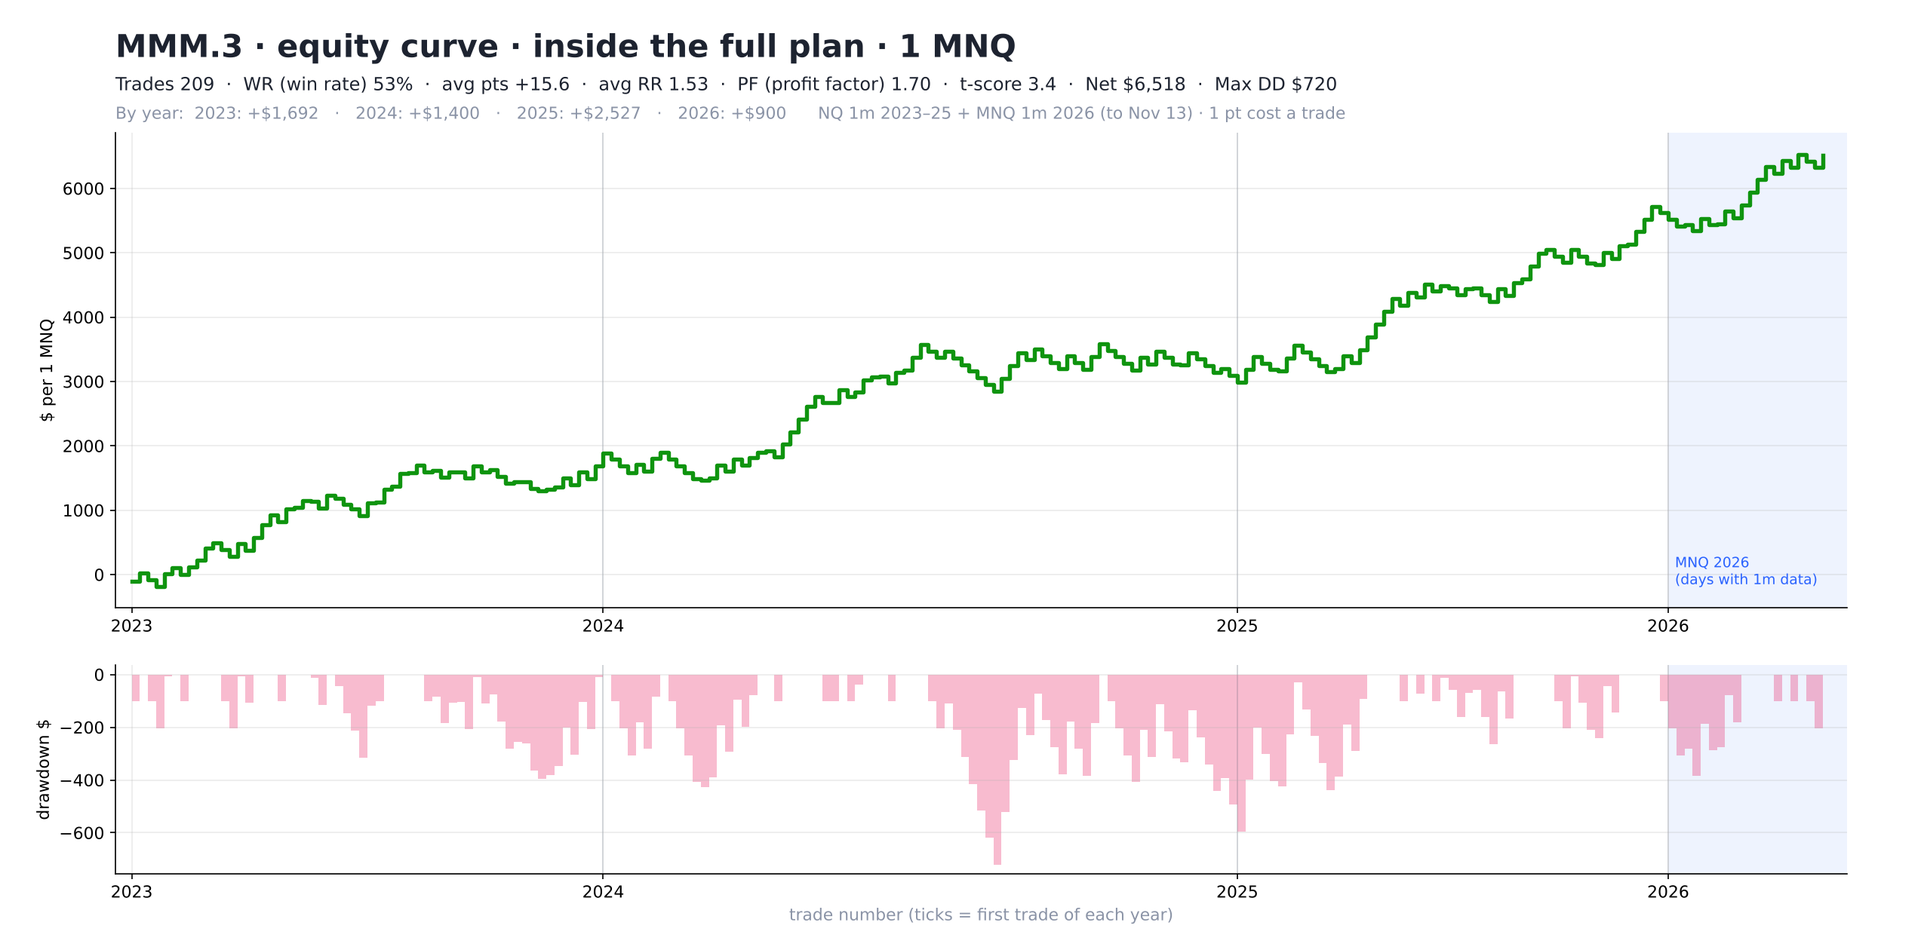
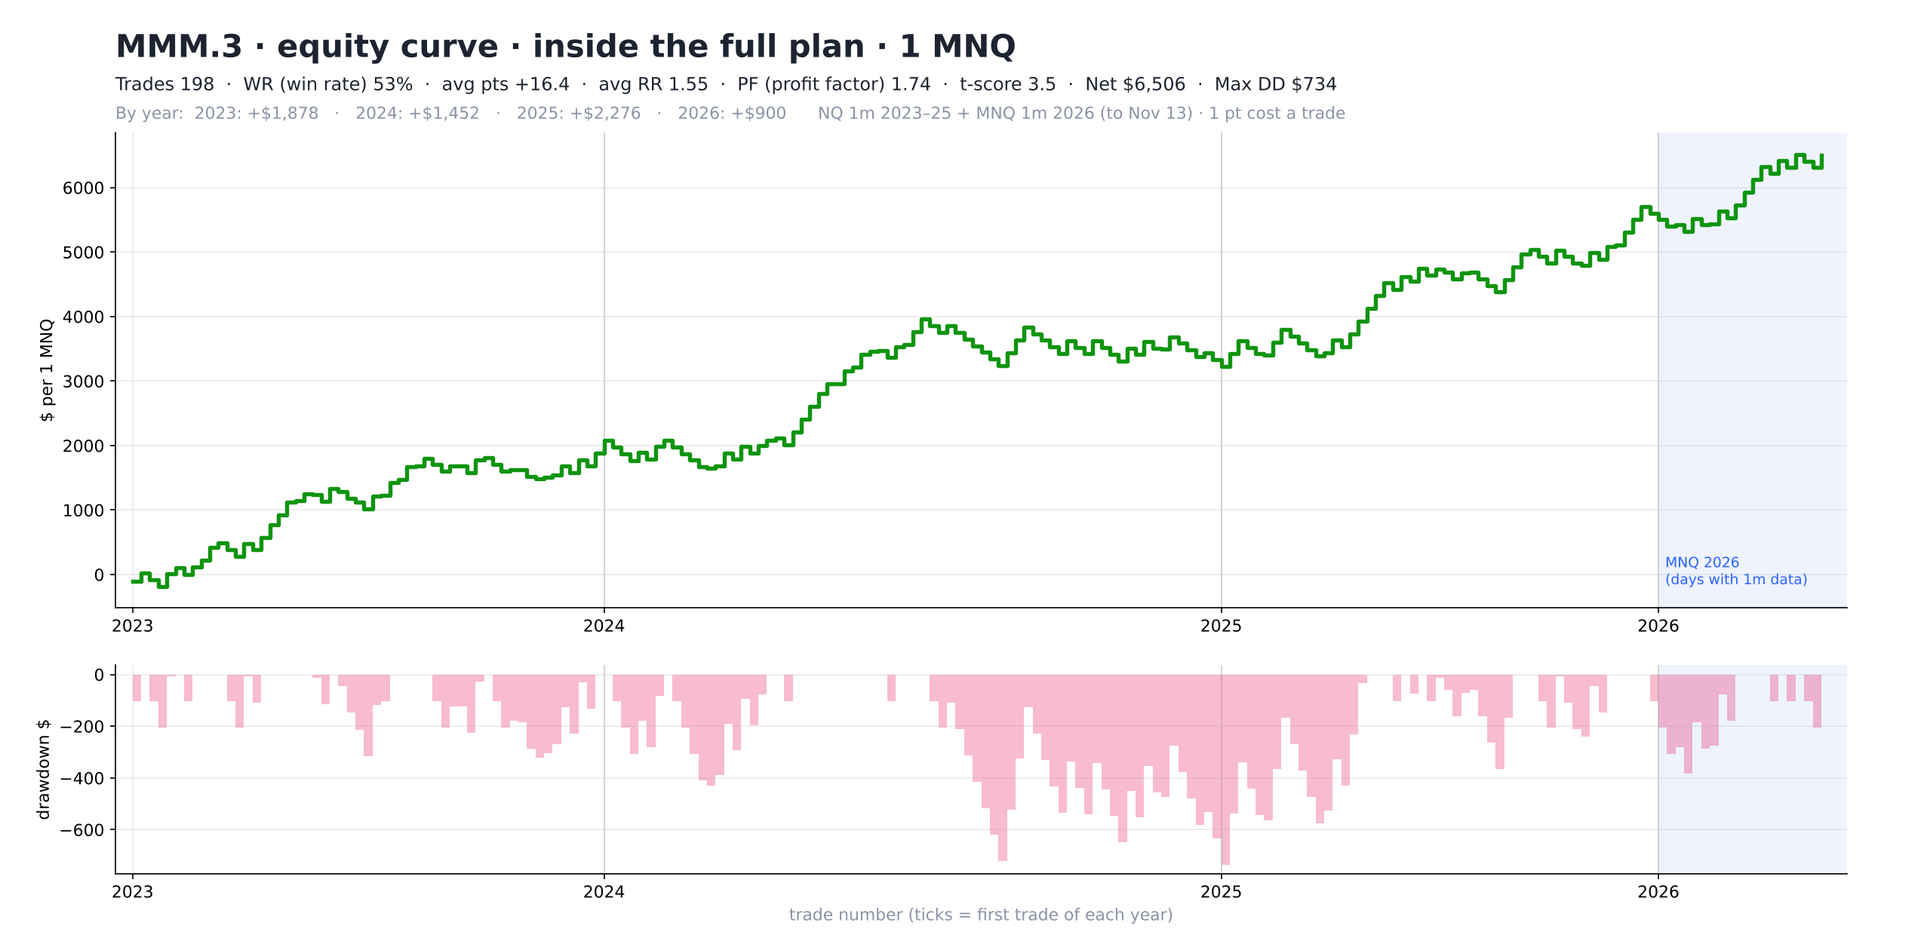
Admin strategy tab: MMM ONE with 7 setups (MMM.6 A/B strong B, MMM.7 London sweep)
New rule cards and curves for MMM.6 and MMM.7, 7-setup plan numbers, plan
picture and equity curve, timing table, Pine names renamed to MMM ONE.

Claude-Session: https://claude.ai/code/session_01BdM5iy6aXvNKQhs3ALG8vD

diff --git a/admin/strategy.js b/admin/strategy.js
@@ -1,11 +1,11 @@
-/* Admin · My strategy tab: the MMM H4 Plan, my personal day plan (final, Nov 16 2026).
-   Pictures, rules and equity curves of the 5 setups. Static content: numbers come from the final test
+/* Admin · My strategy tab: MMM ONE, my personal day plan (7 setups, Nov 23 2026).
+   Pictures, rules and equity curves of the 7 setups (MMM.6 and MMM.7 added Nov 23 2026). Static content: numbers come from the final test
    (NQ 1m 2023 – Nov 2025 + MNQ 1m 2026 to Nov 13, 1 MNQ, 1 pt cost a trade, one trade at a time, day rules on).
    Draws the first time the tab opens. */
 (function () {
   'use strict';
   var $ = function (id) { return document.getElementById(id); };
-  var D = {"setups":{"MMM.1":{"n":246.0,"wr":65.45,"avg":6.97,"pf":1.69,"t":3.62,"dd":309.0,"streak":4.0,"net":3429.5,"rr":0.89,"yr":{"2023":4.0,"2024":7.0,"2025":8.1,"2026":14.5}},"MMM.2":{"n":97.0,"wr":52.58,"avg":20.51,"pf":2.17,"t":2.83,"dd":228.5,"streak":9.0,"net":3978.5,"rr":1.96,"yr":{"2023":14.4,"2024":16.4,"2025":28.3,"2026":30.4}},"MMM.3":{"n":209.0,"wr":52.63,"avg":15.59,"pf":1.7,"t":3.44,"dd":360.25,"streak":6.0,"net":6518.5,"rr":1.53,"yr":{"2023":14.6,"2024":9.0,"2025":23.8,"2026":22.5}},"MMM.4":{"n":227.0,"wr":44.05,"avg":17.07,"pf":1.76,"t":3.86,"dd":328.0,"streak":8.0,"net":7749.5,"rr":2.23,"yr":{"2022":7.8,"2023":15.5,"2024":16.6,"2025":17.7,"2026":21.2}},"MMM.5":{"n":113.0,"wr":65.49,"avg":8.73,"pf":1.88,"t":3.35,"dd":126.0,"streak":4.0,"net":1974.0,"rr":0.99,"yr":{"2023":5.9,"2024":13.4,"2025":7.0,"2026":3.3}}},"plan":{"nq":{"n":812.0,"per_day":1.42,"wr":55.3,"pf":1.76,"t":6.68,"net":20674.5,"dd":883.5,"worst":-283.5,"green":83.33,"hit":0.17},"mnq":{"n":80.0,"per_day":1.45,"wr":58.75,"pf":1.98,"t":2.58,"net":2975.5,"dd":360.0,"worst":-203.0,"green":83.33,"hit":0.0},"all":{"n":892.0,"per_day":1.43,"wr":55.61,"pf":1.78,"t":7.17,"net":23650.0,"dd":883.5,"worst":-283.5,"green":83.33,"hit":0.17}}};
+  var D = {"setups":{"MMM.1":{"n":246.0,"wr":65.45,"avg":6.97,"pf":1.69,"t":3.62,"dd":309.0,"streak":4.0,"net":3429.5,"rr":0.89,"yr":{"2023":4.0,"2024":7.0,"2025":8.1,"2026":14.5}},"MMM.2":{"n":80.0,"wr":52.5,"avg":18.24,"pf":1.93,"t":2.26,"dd":220.0,"streak":8.0,"net":2918.5,"rr":1.75,"yr":{"2023":19.5,"2024":5.3,"2025":25.1,"2026":30.4}},"MMM.3":{"n":198.0,"wr":53.03,"avg":16.43,"pf":1.74,"t":3.52,"dd":367.25,"streak":6.0,"net":6505.5,"rr":1.55,"yr":{"2023":17.1,"2024":10.1,"2025":22.3,"2026":22.5}},"MMM.4":{"n":193.0,"wr":43.01,"avg":16.87,"pf":1.74,"t":3.5,"dd":328.0,"streak":8.0,"net":6512.0,"rr":2.3,"yr":{"2023":12.7,"2024":21.9,"2025":18.1,"2026":12.3}},"MMM.5":{"n":104.0,"wr":65.38,"avg":8.87,"pf":1.92,"t":3.29,"dd":126.0,"streak":4.0,"net":1845.5,"rr":1.01,"yr":{"2023":6.7,"2024":15.5,"2025":5.1,"2026":3.3}},"MMM.6":{"n":148.0,"wr":43.92,"avg":11.82,"pf":1.43,"t":2.03,"dd":357.0,"streak":7.0,"net":3498.0,"rr":1.83,"yr":{"2022":44.0,"2023":1.3,"2024":10.6,"2025":13.4,"2026":49.0}},"MMM.7":{"n":131.0,"wr":45.04,"avg":11.98,"pf":1.53,"t":2.31,"dd":290.0,"streak":7.0,"net":3138.25,"rr":1.87,"yr":{"2022":-41.0,"2023":14.8,"2024":15.2,"2025":5.9,"2026":19.0}}},"plan":{"nq":{"n":1000.0,"per_day":1.57,"wr":52.5,"pf":1.63,"t":6.63,"net":23791.75,"dd":970.5,"worst":-283.5,"green":86.11,"hit":1.2},"mnq":{"n":100.0,"per_day":1.64,"wr":58.0,"pf":2.05,"t":3.13,"net":4055.5,"dd":452.0,"worst":-285.0,"green":83.33,"hit":0.0},"all":{"n":1100.0,"per_day":1.58,"wr":53.0,"pf":1.67,"t":7.29,"net":27847.25,"dd":970.5,"worst":-285.0,"green":85.71,"hit":1.48}}};
   var IMG = '/admin/strategy/';
   var money = function (x) { return (x < 0 ? '−$' : '$') + Math.abs(Math.round(x)).toLocaleString('en-US'); };
   var sg = function (x, d) { return (x >= 0 ? '+' : '−') + Math.abs(x).toFixed(d == null ? 1 : d); };
@@ -24,7 +24,7 @@
               '<b>Entry:</b> the first M30 candle that closes past the candle before it (CBrk = R1). Enter at that close.',
               '<b>Stop</b> past the break candle. Each new M30 close past the one before moves the stop past it. The stop is wide: size for it.',
               '<b>Out</b> at 2PM (the H4 close) or at the trailed stop.'],
-      note: 'MMM.2 and MMM.3 share the 10AM H4: the first signal wins.' },
+      note: 'MMM.2 and MMM.3 share the 10AM H4: the first signal wins. MMM.6 often takes the 10:00–10:30 slot first, so MMM.2 has fewer trades in the 7-setup plan (80, was 97).' },
     { c: 'MMM.3', name: 'H4-10AM · Open ±30 Push (MC / MU)', st: 'Trade', win: '10AM–2PM NY', chart: 'H4 → M5', stop: 'Stop 50 · Target +100 (1:2)',
       rules: ['<b>Filter:</b> the pH4-6AM closed weak (MMCB Minus: BuBC−, BeBC−, BuAFs− or BeAFs−). Otherwise no trade.',
               '<b>Mark</b> the 10AM open ± 30 pts.',
@@ -46,12 +46,26 @@
               '<b>Stop 30 · Target +30.</b> Leave it alone.',
               '<b>Longs only.</b> A break of the low of day does not work.',
               '<b>Out</b> at TP, SL or 4PM.'],
-      note: 'Entries after 2PM are weaker. Paper-trade first.' }
+      note: 'Entries after 2PM are weaker. Paper-trade first.' },
+    { c: 'MMM.6', name: 'A / B Hours · Strong B + M5 Break', st: 'Paper first', win: '10:00–10:30AM NY', chart: 'H1 → M5', stop: 'Stop 50 · Target +100 (1:2)',
+      rules: ['<b>A</b> = the 8–9AM H1. <b>B</b> = the 9–10AM H1 (New York time).',
+              '<b>Filter:</b> B is strong (body over 60% of the candle) and closes past A. Long: B closes up, above the A high. Short: B closes down, below the A low. Otherwise no trade today.',
+              '<b>Entry:</b> the first M5 candle that closes past the last M5 high (long) or low (short) with a body over 60%. Enter at its close. The last candle closes at 10:30.',
+              '<b>Stop 50 · Target +100.</b> Leave it alone.',
+              '<b>Out</b> at TP, SL or 4PM.'],
+      note: 'Weak in 2023 (avg +1 pt a trade). t-score 2.0: paper-trade first.' },
+    { c: 'MMM.7', name: 'London Sweep of Asia · H1 Reversal Limit', st: 'Paper first', win: 'Signal 2AM–8AM NY', chart: 'H1 · limit order', stop: 'Stop 40 · Target +80 (1:2)',
+      rules: ['<b>Mark</b> the Asia high and low: 6PM–2AM NY (needs 5 hours of data or more).',
+              '<b>Filter:</b> London (2–8AM) takes ONE side of Asia. One H1 that takes both sides = no trade today.',
+              '<b>Signal:</b> a strong H1 (body over 60%) closes back the other way. High taken → it closes down, back below the Asia high and below the last H1 low. Low taken → the mirror, for a long.',
+              '<b>Entry:</b> a LIMIT order at 50% of that H1. Valid until 8AM. Not filled by 8AM = no trade.',
+              '<b>Stop 40 · Target +80.</b> Out at TP, SL or 4PM.'],
+      note: 'The only limit entry in the plan. Weak in 2025 (avg +6 pts a trade). t-score 2.3: paper-trade first. If MMM.1 fires before the fill, MMM.1 trades.' }
   ];
   var PLAN = ['NY time. I trade <b>MNQ</b>. The day starts at 6PM.',
               '<b>One trade at a time.</b> While a trade is open, new signals are ignored.',
               '<b>Stop the day</b> after 2 wins or 2 losses. Max 3 trades a day.',
-              '<b>Enter at the signal candle close.</b> Limit orders at the 50% or the open missed the best winners.',
+              '<b>Enter at the signal candle close.</b> Limit orders at the 50% or the open missed the best winners for MMM.1–5. MMM.7 is the one limit setup: its test was built that way.',
               '<b>Fixed stop, fixed target.</b> No break-even, no trail (MMM.2 trails by design). No early exits.',
               '<b>Same candle, two setups:</b> the lower MMM number goes first (the same as the TradingView strategy).',
               '<b>Size</b> from the stop: the indicator gives the contracts for your $ risk. The test uses 1 MNQ and 1 pt cost a trade.'];
@@ -79,11 +93,11 @@
   function kpi(v, a, b) { return '<div class="kpi"><b>' + v + '</b><span>' + a + (b ? '<br><small>' + b + '</small>' : '') + '</span></div>'; }
   function draw() {
     var A = D.plan.all, N = D.plan.nq, M = D.plan.mnq, h = '<style>' + CSS + '</style>';
-    h += '<div><h2>MMM Personal Strategy · the H4 Plan</h2><p class="lead">My own day plan: 5 setups at fixed times, fixed stops and fixed targets. Tested on NQ 1-minute data from Jan 2023 to Nov 2025, then checked on MNQ 2026 (to Nov 13). TradingView\'s Strategy Tester gave the same trades (97% within 1 pt).</p>';
+    h += '<div><h2>MMM Personal Strategy · MMM ONE</h2><p class="lead">My own day plan: 7 setups at fixed times, fixed stops and fixed targets. Tested on NQ 1-minute data from Jan 2023 to Nov 2025, then checked on MNQ 2026 (to Nov 13). TradingView\'s Strategy Tester gave the same trades for MMM.1–5 (97% within 1 pt). MMM.6 (A/B hours) and MMM.7 (London sweep of Asia) were added on Nov 23 2026: 5 setups made $23,650 (DD $884), 7 setups make ' + money(A.net) + ' (DD ' + money(A.dd) + ').</p>';
     h += '<div class="kpis">' + kpi(money(A.net), 'Net, 1 MNQ', 'whole test') + kpi(A.n, 'Trades', A.per_day.toFixed(1) + ' a day') + kpi(A.wr.toFixed(0) + '%', 'WR (win rate)') +
          kpi(A.pf.toFixed(2), 'PF (profit factor)') + kpi(A.t.toFixed(1), 't-score', '3+ = very likely real') + kpi(money(A.dd), 'Max drawdown', 'worst day ' + money(A.worst)) +
          kpi(A.green.toFixed(0) + '%', 'Green months') + kpi(money(M.net), 'MNQ 2026 check', M.n + ' trades · PF ' + M.pf.toFixed(2)) + '</div></div>';
-    h += '<nav class="jump" aria-label="Jump to">' + ['plan', 'mix', 'time', 'size', 'MMM.1', 'MMM.2', 'MMM.3', 'MMM.4', 'MMM.5', 'out', 'pine'].map(function (k) {
+    h += '<nav class="jump" aria-label="Jump to">' + ['plan', 'mix', 'time', 'size', 'MMM.1', 'MMM.2', 'MMM.3', 'MMM.4', 'MMM.5', 'MMM.6', 'MMM.7', 'out', 'pine'].map(function (k) {
       return '<a href="#st-' + k.replace('.', '') + '">' + ({ plan: 'The plan', mix: 'Every mix', time: 'When to trade', size: 'Account size', out: 'Tested and left out', pine: 'Pine scripts' }[k] || k) + '</a>'; }).join('') + '</nav>';
     h += '<section id="st-plan" class="set"><h3>The plan · one page</h3>' + pic('MMM_Personal_Strategy.png', 'MMM Personal Strategy one-page plan') +
          '<div class="two"><div><h3>Plan rules</h3><ol>' + PLAN.map(function (x) { return '<li>' + x + '</li>'; }).join('') + '</ol></div>' +
@@ -91,10 +105,10 @@
          [['NQ 2023 – Nov 2025', N], ['MNQ 2026 (to Nov 13)', M], ['Whole test', A]].map(function (r) { var s = r[1];
            return '<tr><td>' + r[0] + '</td><td class="num">' + s.n + '</td><td class="num">' + s.wr.toFixed(0) + '%</td><td class="num">' + s.pf.toFixed(2) + '</td><td class="num">' + s.t.toFixed(1) + '</td><td class="num">' + money(s.net) + '</td><td class="num">' + money(s.dd) + '</td></tr>'; }).join('') +
          '</tbody></table></div><p class="small">2026 = only the days with 1-minute data. −$2,000 drawdown touched in ' + A.hit.toFixed(2) + '% of 4,000 reshuffles of the same trades.</p></div></div>' +
-         '<h3>Equity curve · all 5 setups</h3>' + pic('MMM_Plan_Equity.png', 'MMM H4 Plan equity curve') + '</section>';
-    h += '<section id="st-mix" class="set"><h3>Every mix · each setup alone, together, and all 5</h3><p class="lead" style="margin:0"><b>All 5 makes the most money</b> ($23,650, max drop $884 on 1 MNQ). Adding any setup to a mix adds money. <b>MMM.2 + 3 + 4 + 5</b> (no London) has the smallest drop for its money ($20,439, drop $655): use it on days you skip the 2AM session.</p>' + pic('MMM_Mix_Curves.png', 'Equity of every mix') + pic('MMM_All_Mixes.png', 'All 31 mixes ranked') + '</section>';
-    h += '<section id="st-time" class="set"><h3>When to be in front of the market</h3><div class="two"><div><ol><li><b>London:</b> sit down 1:55AM NY (6:55AM UK) for MMM.1. Done at the trade exit or 6AM NY (11AM UK).</li><li><b>NY AM:</b> sit down 9:55AM NY (2:55PM UK) for MMM.2, MMM.3 and MMM.4. Done at the trade exit; MMM.4 can run to 4PM NY (9PM UK).</li><li><b>NY PM:</b> sit down 1:25PM NY (6:25PM UK) for MMM.5. Done at the trade exit or 4PM NY (9PM UK).</li><li>UK = NY + 5 hours most of the year (+4 for about 3 weeks in March and 1 week around early November).</li></ol><p class="note" style="margin-top:10px">A trade happens on 75% of days, 1.4 trades on those days. Average time in a trade: about 1 h 30 min (MMM.5 about 45 min).</p></div><div class="tw"><table><thead><tr><th>Setup</th><th>Entries NY</th><th>Entries UK</th><th class="num">Signal days</th><th class="num">Avg entry</th><th class="num">Avg in trade</th></tr></thead><tbody><tr><td><b>MMM.1</b></td><td>2:00–6:00AM</td><td>7:00–11:00AM</td><td class="num">30%</td><td class="num">2:51AM NY</td><td class="num">106 min</td></tr><tr><td><b>MMM.2</b></td><td>10:00AM–2:00PM</td><td>3:00–7:00PM</td><td class="num">15%</td><td class="num">11:28AM NY</td><td class="num">102 min</td></tr><tr><td><b>MMM.3</b></td><td>10:00AM–2:00PM</td><td>3:00–7:00PM</td><td class="num">26%</td><td class="num">10:34AM NY</td><td class="num">94 min</td></tr><tr><td><b>MMM.4</b></td><td>10:30AM–12:00PM</td><td>3:30–5:00PM</td><td class="num">35%</td><td class="num">10:53AM NY</td><td class="num">102 min</td></tr><tr><td><b>MMM.5</b></td><td>1:30–3:00PM</td><td>6:30–8:00PM</td><td class="num">21%</td><td class="num">2:00PM NY</td><td class="num">45 min</td></tr></tbody></table></div></div>' + pic('MMM_Screen_Time.png', 'When to be in front of the market') + '</section>';
-    h += '<section id="st-size" class="set"><h3>Prop account size · starting today</h3><p class="lead" style="margin:0"><b>Start with a 50K-type account ($2,000 drawdown) and 1 MNQ.</b> The worst drop in the test was $884 (44% of the limit); 3,000 reshuffles of the same trades touch −$2,000 only 0.3% of the time. A 100K-type ($3,000) still allows only 1 MNQ by the 2× rule. Next step: a 150K-type ($4,500) with 2 MNQ. Option: size from the stop with $150 risk a trade on the $2,000 account.</p><p style="margin:10px 0 0"><button class="btn gold" type="button" onclick="window.MMMPick && window.MMMPick(\'size\')">Open the Prop Safe Size calculator</button></p>' + pic('MMM_Prop_Size.png', 'Prop account size for the MMM H4 Plan') + '</section>';
+         '<h3>Equity curve · all 7 setups</h3>' + pic('MMM_Plan_Equity.png', 'MMM ONE plan equity curve') + '</section>';
+    h += '<section id="st-mix" class="set"><h3>Every mix · MMM.1–5 alone, together, and all 5</h3><p class="lead" style="margin:0">These pictures cover MMM.1–5. <b>All 5</b> made $23,650 (max drop $884 on 1 MNQ). <b>Adding MMM.6 + MMM.7</b> adds $4,197 and the max drop goes to $971. <b>MMM.2 + 3 + 4 + 5</b> (no London) has the smallest drop for its money ($20,439, drop $655): use it on days you skip the night sessions.</p>' + pic('MMM_Mix_Curves.png', 'Equity of every mix') + pic('MMM_All_Mixes.png', 'All 31 mixes ranked') + '</section>';
+    h += '<section id="st-time" class="set"><h3>When to be in front of the market</h3><div class="two"><div><ol><li><b>London:</b> sit down 1:55AM NY (6:55AM UK) for MMM.1 and MMM.7. MMM.1 is done at the trade exit or 6AM NY (11AM UK). MMM.7: the limit order is placed at an H1 close between 3AM and 8AM NY; set it and its stop / target, it can run to 4PM NY.</li><li><b>NY AM:</b> sit down 9:55AM NY (2:55PM UK) for MMM.2, MMM.3, MMM.4 and MMM.6 (MMM.6 entries only 10:00–10:30). Done at the trade exit; MMM.4 can run to 4PM NY (9PM UK).</li><li><b>NY PM:</b> sit down 1:25PM NY (6:25PM UK) for MMM.5. Done at the trade exit or 4PM NY (9PM UK).</li><li>UK = NY + 5 hours most of the year (+4 for about 3 weeks in March and 1 week around early November).</li></ol><p class="note" style="margin-top:10px">With 7 setups a trade happens on about 84% of days, 1.6 trades on those days. Average time in a trade: about 1 h 30 min (MMM.5 about 40 min, MMM.7 about 2 h 35 min). The picture below shows MMM.1–5.</p></div><div class="tw"><table><thead><tr><th>Setup</th><th>Entries NY</th><th>Entries UK</th><th class="num">Signal days</th><th class="num">Avg entry</th><th class="num">Avg in trade</th></tr></thead><tbody><tr><td><b>MMM.1</b></td><td>2:00–6:00AM</td><td>7:00–11:00AM</td><td class="num">30%</td><td class="num">2:51AM NY</td><td class="num">106 min</td></tr><tr><td><b>MMM.2</b></td><td>10:00AM–2:00PM</td><td>3:00–7:00PM</td><td class="num">15%</td><td class="num">11:28AM NY</td><td class="num">102 min</td></tr><tr><td><b>MMM.3</b></td><td>10:00AM–2:00PM</td><td>3:00–7:00PM</td><td class="num">26%</td><td class="num">10:34AM NY</td><td class="num">94 min</td></tr><tr><td><b>MMM.4</b></td><td>10:30AM–12:00PM</td><td>3:30–5:00PM</td><td class="num">35%</td><td class="num">10:53AM NY</td><td class="num">102 min</td></tr><tr><td><b>MMM.5</b></td><td>1:30–3:00PM</td><td>6:30–8:00PM</td><td class="num">21%</td><td class="num">2:00PM NY</td><td class="num">45 min</td></tr><tr><td><b>MMM.6</b></td><td>10:00–10:30AM</td><td>3:00–3:30PM</td><td class="num">18%</td><td class="num">10:15AM NY</td><td class="num">94 min</td></tr><tr><td><b>MMM.7</b></td><td>3:00–8:00AM (limit)</td><td>8:00AM–1:00PM</td><td class="num">17%</td><td class="num">6:12AM NY</td><td class="num">156 min</td></tr></tbody></table></div></div>' + pic('MMM_Screen_Time.png', 'When to be in front of the market') + '</section>';
+    h += '<section id="st-size" class="set"><h3>Prop account size · starting today</h3><p class="lead" style="margin:0"><b>Start with a 50K-type account ($2,000 drawdown) and 1 MNQ.</b> The worst drop with 7 setups was $971 (49% of the limit); reshuffles of the same trades touch −$2,000 about 1.3% of the time (0.3% with 5 setups). The picture below was made for 5 setups. A 100K-type ($3,000) still allows only 1 MNQ by the 2× rule. Next step: a 150K-type ($4,500) with 2 MNQ. Option: size from the stop with $150 risk a trade on the $2,000 account.</p><p style="margin:10px 0 0"><button class="btn gold" type="button" onclick="window.MMMPick && window.MMMPick(\'size\')">Open the Prop Safe Size calculator</button></p>' + pic('MMM_Prop_Size.png', 'Prop account size for the MMM H4 Plan') + '</section>';
     SET.forEach(function (s) {
       var k = D.setups[s.c], id = s.c.replace('.', ''), yrs = Object.keys(k.yr).filter(function (y) { return +y >= 2023; });
       h += '<section id="st-' + id + '" class="set"><div><h2>' + s.c + ' · ' + s.name + '</h2><div class="meta" style="margin-top:8px"><span class="chip ' + (s.st === 'Trade' ? 'trade' : 'paper') + '">' + s.st.toUpperCase() + '</span>' +
@@ -108,10 +122,10 @@
     h += '<section id="st-out" class="set"><h3>Tested and left out · the fixed plan beat them</h3><div class="tw"><table><thead><tr><th>Idea</th><th>What the test said</th></tr></thead><tbody>' +
          OUT.map(function (r) { return '<tr><td><b>' + r[0] + '</b></td><td>' + r[1] + '</td></tr>'; }).join('') + '</tbody></table></div></section>';
     h += '<section id="st-pine" class="set"><h3>Pine scripts (TradingView)</h3><ul>' +
-         '<li><b>MMM H4 Plan @MaxMaserati</b> (indicator): the 5 setups, the day rules, live alerts, stop / target tags and the stats table.</li>' +
-         '<li><b>MMM H4 Plan Strategy @MaxMaserati</b> (strategy): the same logic for the Strategy Tester. 1 contract, $1 a contract commission, bar magnifier on. Style tab → untick "Trades on chart" for a clean chart.</li>' +
+         '<li><b>MMM ONE @MaxMaserati</b> (indicator): the 7 setups, the day rules, live alerts, stop / target tags, the LIVE table and the STATS table (MMM.1 to MMM.7 + ALL).</li>' +
+         '<li><b>MMM ONE Strategy @MaxMaserati</b> (strategy): the same logic for the Strategy Tester. MMM.7 waits as a real limit order there too. 1 contract, $1 a contract commission, bar magnifier on. Style tab → untick "Trades on chart" for a clean chart.</li>' +
          '<li>Keep <b>"Stop Never Inside The Signal Candle"</b> off: the test says it costs money.</li>' +
-         '<li>MMM.4 and MMM.5 are marked paper in the indicator until they prove themselves live.</li></ul>' +
+         '<li>MMM.4, MMM.5, MMM.6 and MMM.7 are marked paper in the indicator until they prove themselves live (Paper Tag switch in each group).</li></ul>' +
          '<p class="small" style="margin-top:10px">The code is not stored on this site (the site\'s files are public). Keep the .pine files in TradingView and your own files.</p></section>';
     h += '<p class="small">Tested results, not real money. 1 MNQ = $2 a point. Stop wins when the stop and target are hit in the same 1-minute candle. Past results do not promise future results.</p>';
     $('stx').innerHTML = h;

diff --git a/admin/index.html b/admin/index.html
@@ -667,7 +667,7 @@ main:not([data-tab=vip]) #vip,main:not([data-tab=crm]) #crm,main:not([data-tab=p
 /* admin tabs: Members · V.I.P · CRM (they show once the admin login is confirmed) */
 (function () {
   var $ = function (id) { return document.getElementById(id); };
-  var main = $('app'), tabs = $('atabs'), TABS = { members: ['Members', 'Everyone registered on the website and the journal.'], vip: ['V.I.P', 'Your master code, private sign-up links and member codes.'], whop: ['Whop', 'Live store control: edit products, run promo codes, catch failed renewals. Daily charts below.'], crm: ['CRM', 'Everything in one place: money, targets, content and what needs you.'], prop: ['Prop firms', 'Money and link clicks from /prop-firms/, then offers, direct links and the daily checks.'], haiti: ['Ayiti P2P', 'The USDT marketplace in Haiti: ID checks, disputes, orders, ads, users and limits.'], mail: ['Mail', 'Every inbox in one place. Read, clean and unsubscribe, and plug them all into Claude.'], strat: ['MMM Personal Strategy', 'My H4 Plan: the 5 setups, every mix, when to trade, account size, rules, pictures and curves. Final test, Nov 2026.'], size: ['Prop Safe Size', 'How many contracts a prop account can carry. Opens on the MMM H4 Plan.'] };
+  var main = $('app'), tabs = $('atabs'), TABS = { members: ['Members', 'Everyone registered on the website and the journal.'], vip: ['V.I.P', 'Your master code, private sign-up links and member codes.'], whop: ['Whop', 'Live store control: edit products, run promo codes, catch failed renewals. Daily charts below.'], crm: ['CRM', 'Everything in one place: money, targets, content and what needs you.'], prop: ['Prop firms', 'Money and link clicks from /prop-firms/, then offers, direct links and the daily checks.'], haiti: ['Ayiti P2P', 'The USDT marketplace in Haiti: ID checks, disputes, orders, ads, users and limits.'], mail: ['Mail', 'Every inbox in one place. Read, clean and unsubscribe, and plug them all into Claude.'], strat: ['MMM Personal Strategy', 'MMM ONE: my 7 setups, every mix, when to trade, account size, rules, pictures and curves. Updated Nov 23 2026.'], size: ['Prop Safe Size', 'How many contracts a prop account can carry. Opens on the MMM ONE plan.'] };
   var SUB = $('sub').textContent;
   function pick(t, push) {
     if (!TABS[t]) t = 'members';
